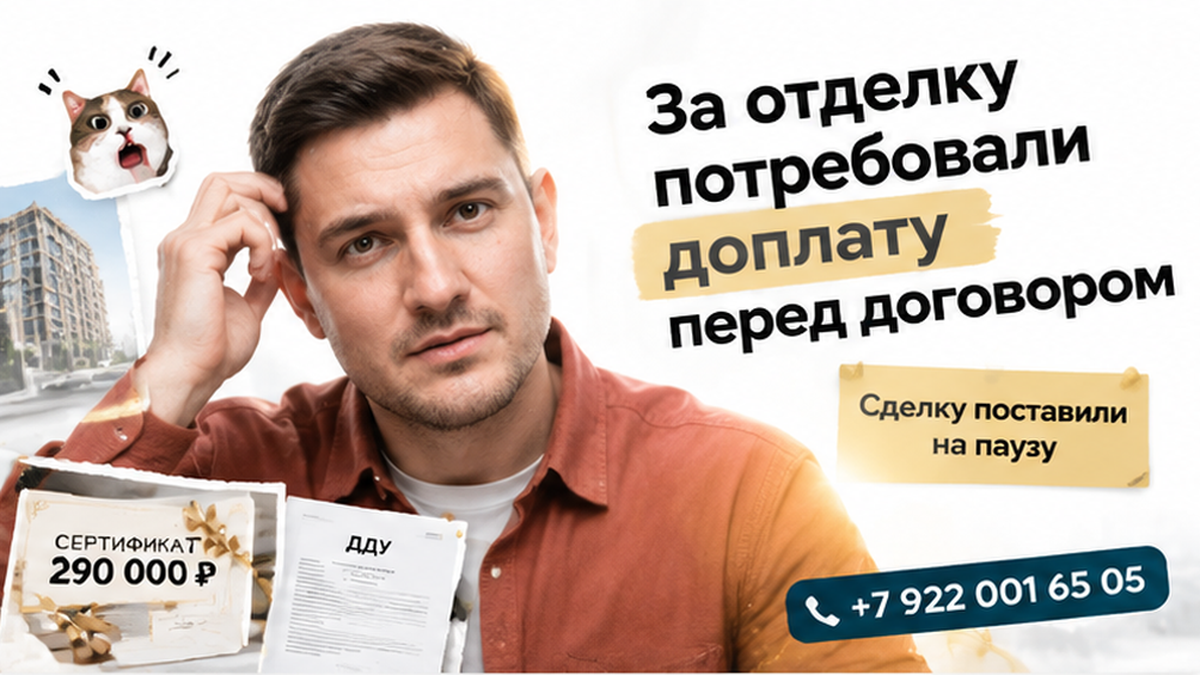
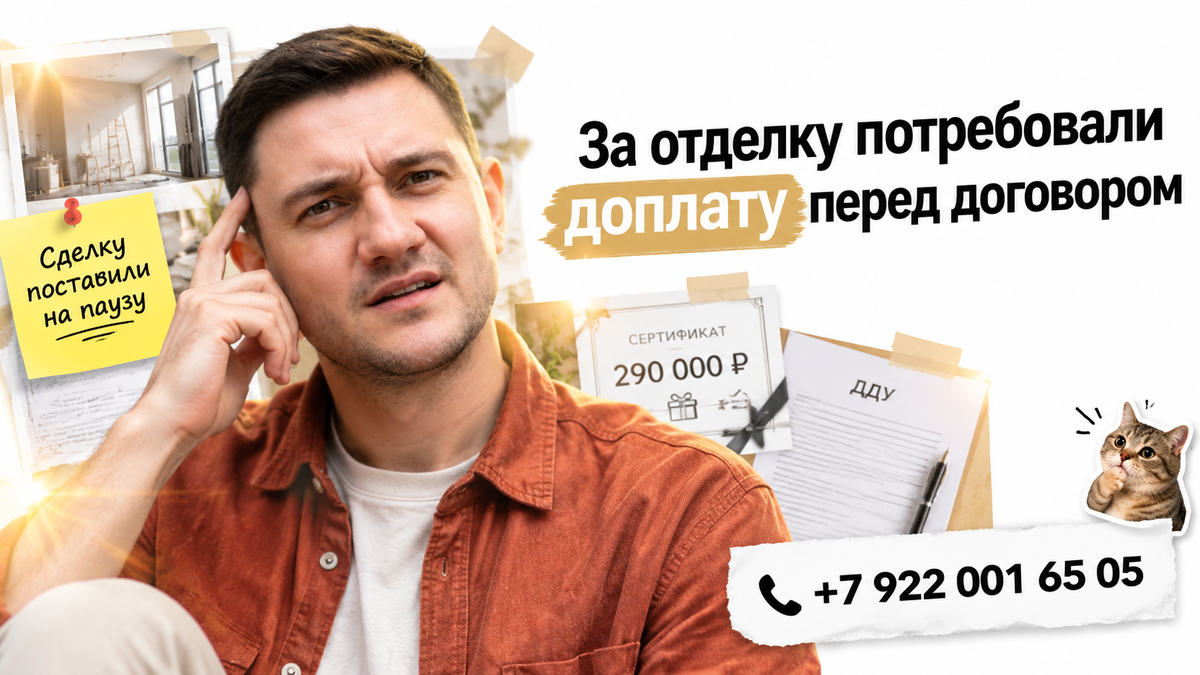
B34: cover QA PASS after fixer regen + image alt captions
- Pixel gate failed on opaque Wordstat bars, hook OCR, collage layout
- Fixer round 1: solo cover regen → cover_qa.json PASS (md5 03fb626e)
- image_caption_builder --apply; sanitize inline_1 h2_anchor (no scene-painting)

diff --git a/memory/blog/articles/B34-v-tyumeni-na-vstreche-pered-ddu-vsplyl-sertifikat-otdelki-na-290-tysyach/article.html b/memory/blog/articles/B34-v-tyumeni-na-vstreche-pered-ddu-vsplyl-sertifikat-otdelki-na-290-tysyach/article.html
@@ -6,7 +6,7 @@
 
 <h2>В объявлении цена «с отделкой», на столе — проект ДДУ без неё</h2>
 
-<figure class="inline-quad" data-slot="inline_1"><img src="cover/inline-01.png" alt="Цена с отделкой в объявлении и проект ДДУ без приложений — новостройка в Тюмени." loading="lazy"></figure>
+<figure class="inline-quad" data-slot="inline_1"><img src="cover/inline-01.png" alt="реалистичный кадр (без лица хоста) к разделу «В объявлении цена «с отделкой», проект ДДУ без…» в Тюмени — иллюстрация к кейсу о сделке." loading="lazy"></figure>
 
 
 <figure class="inline-quad" data-slot="inline_2">
